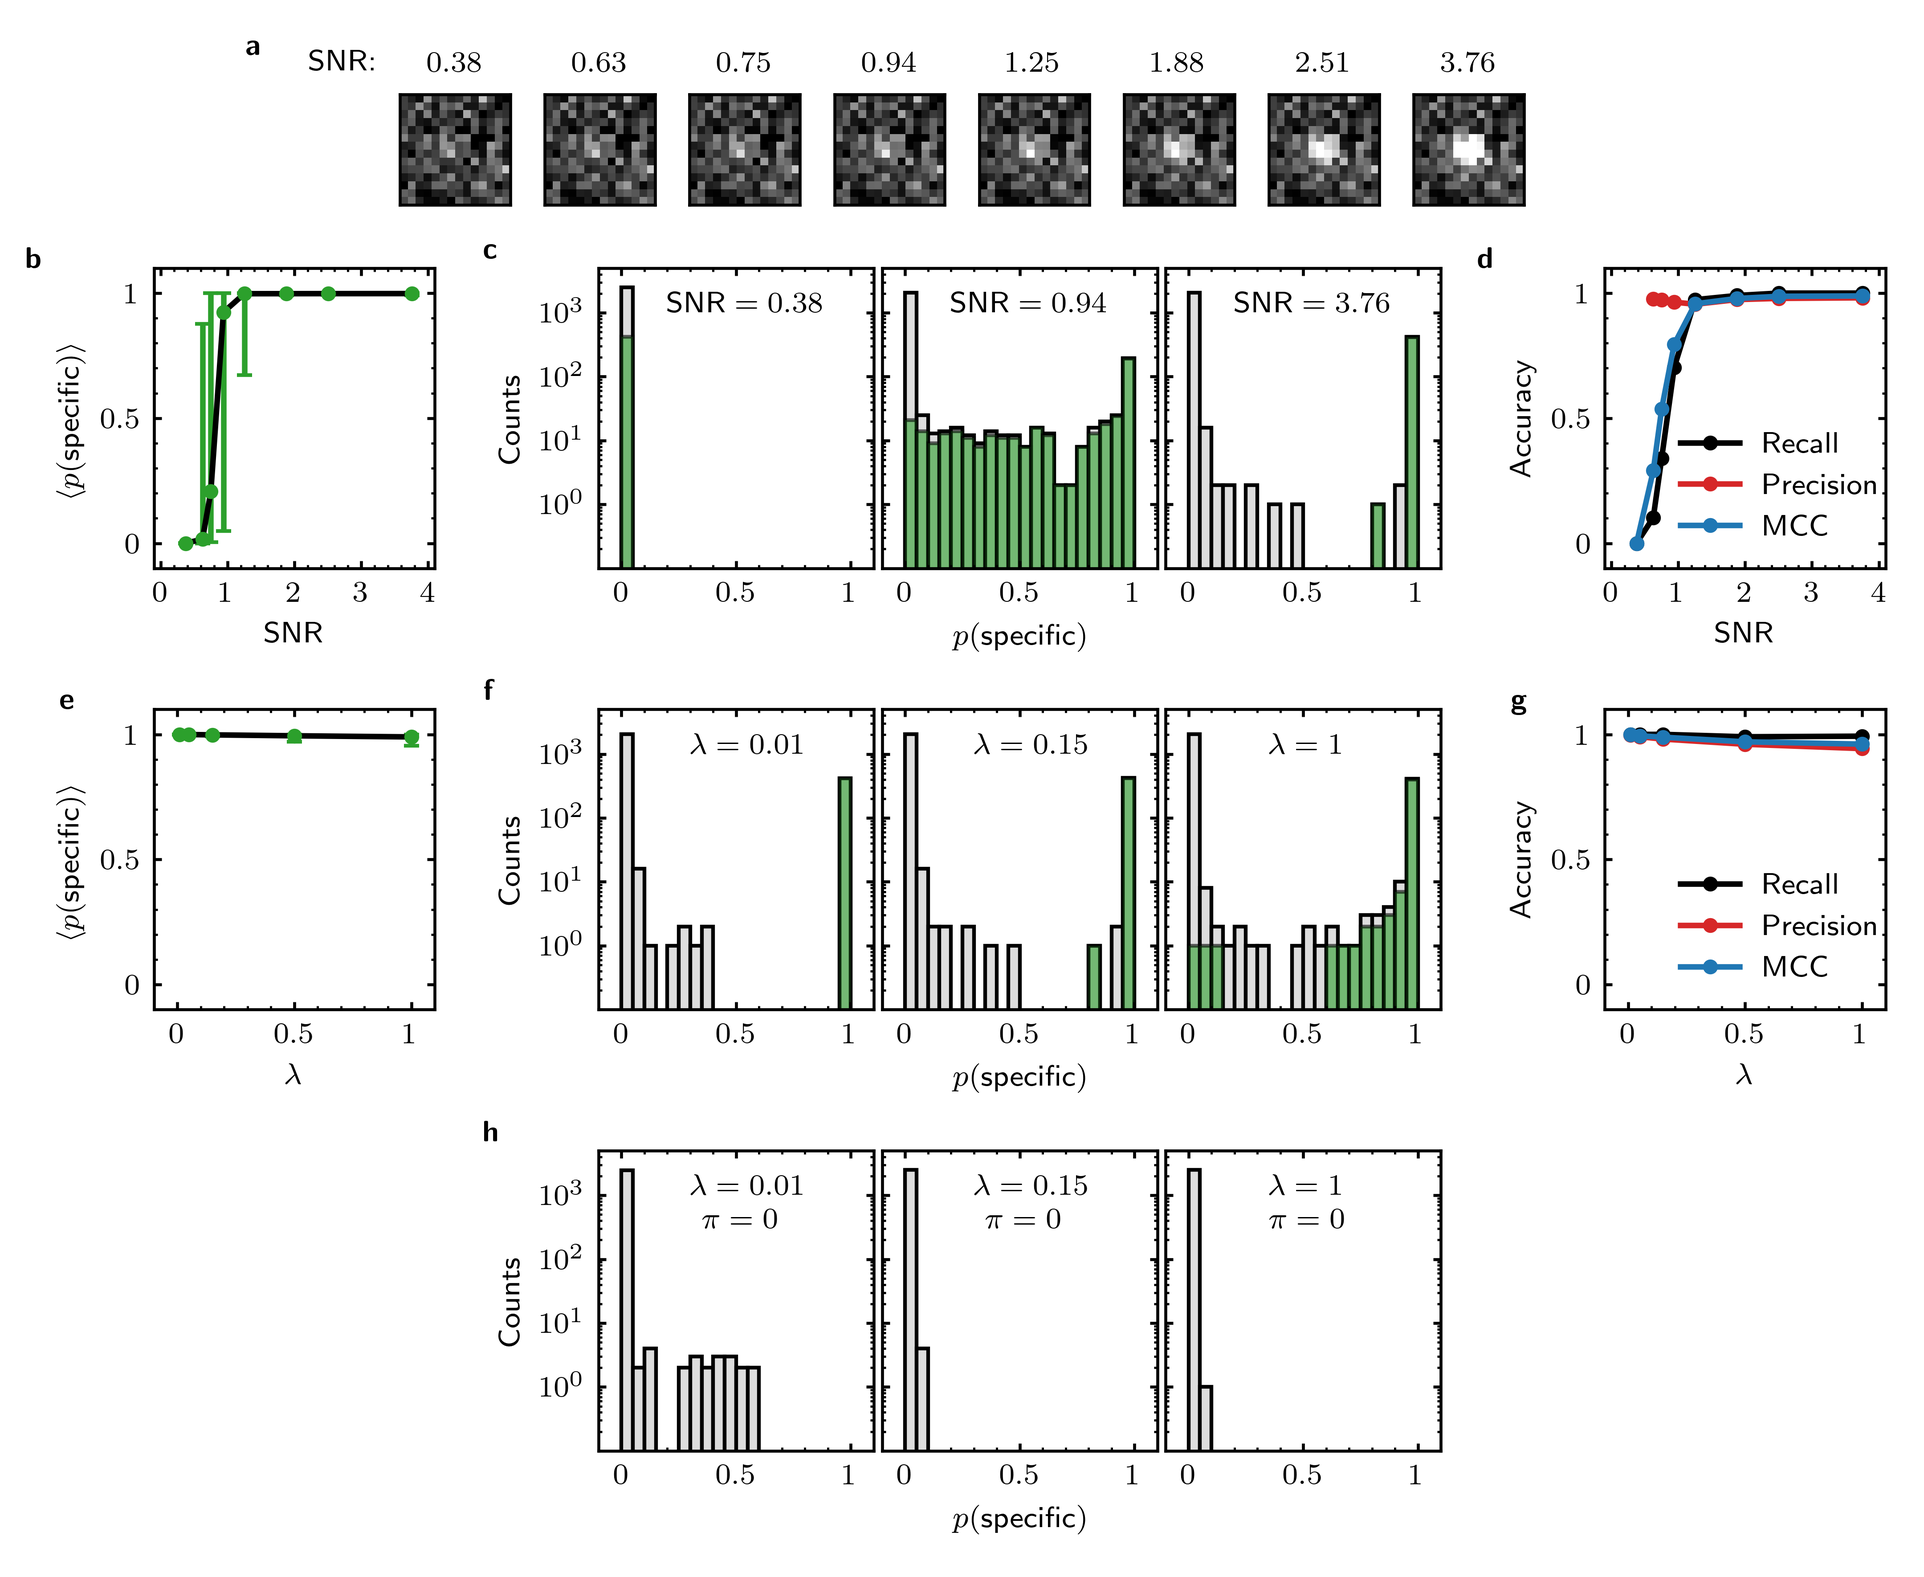
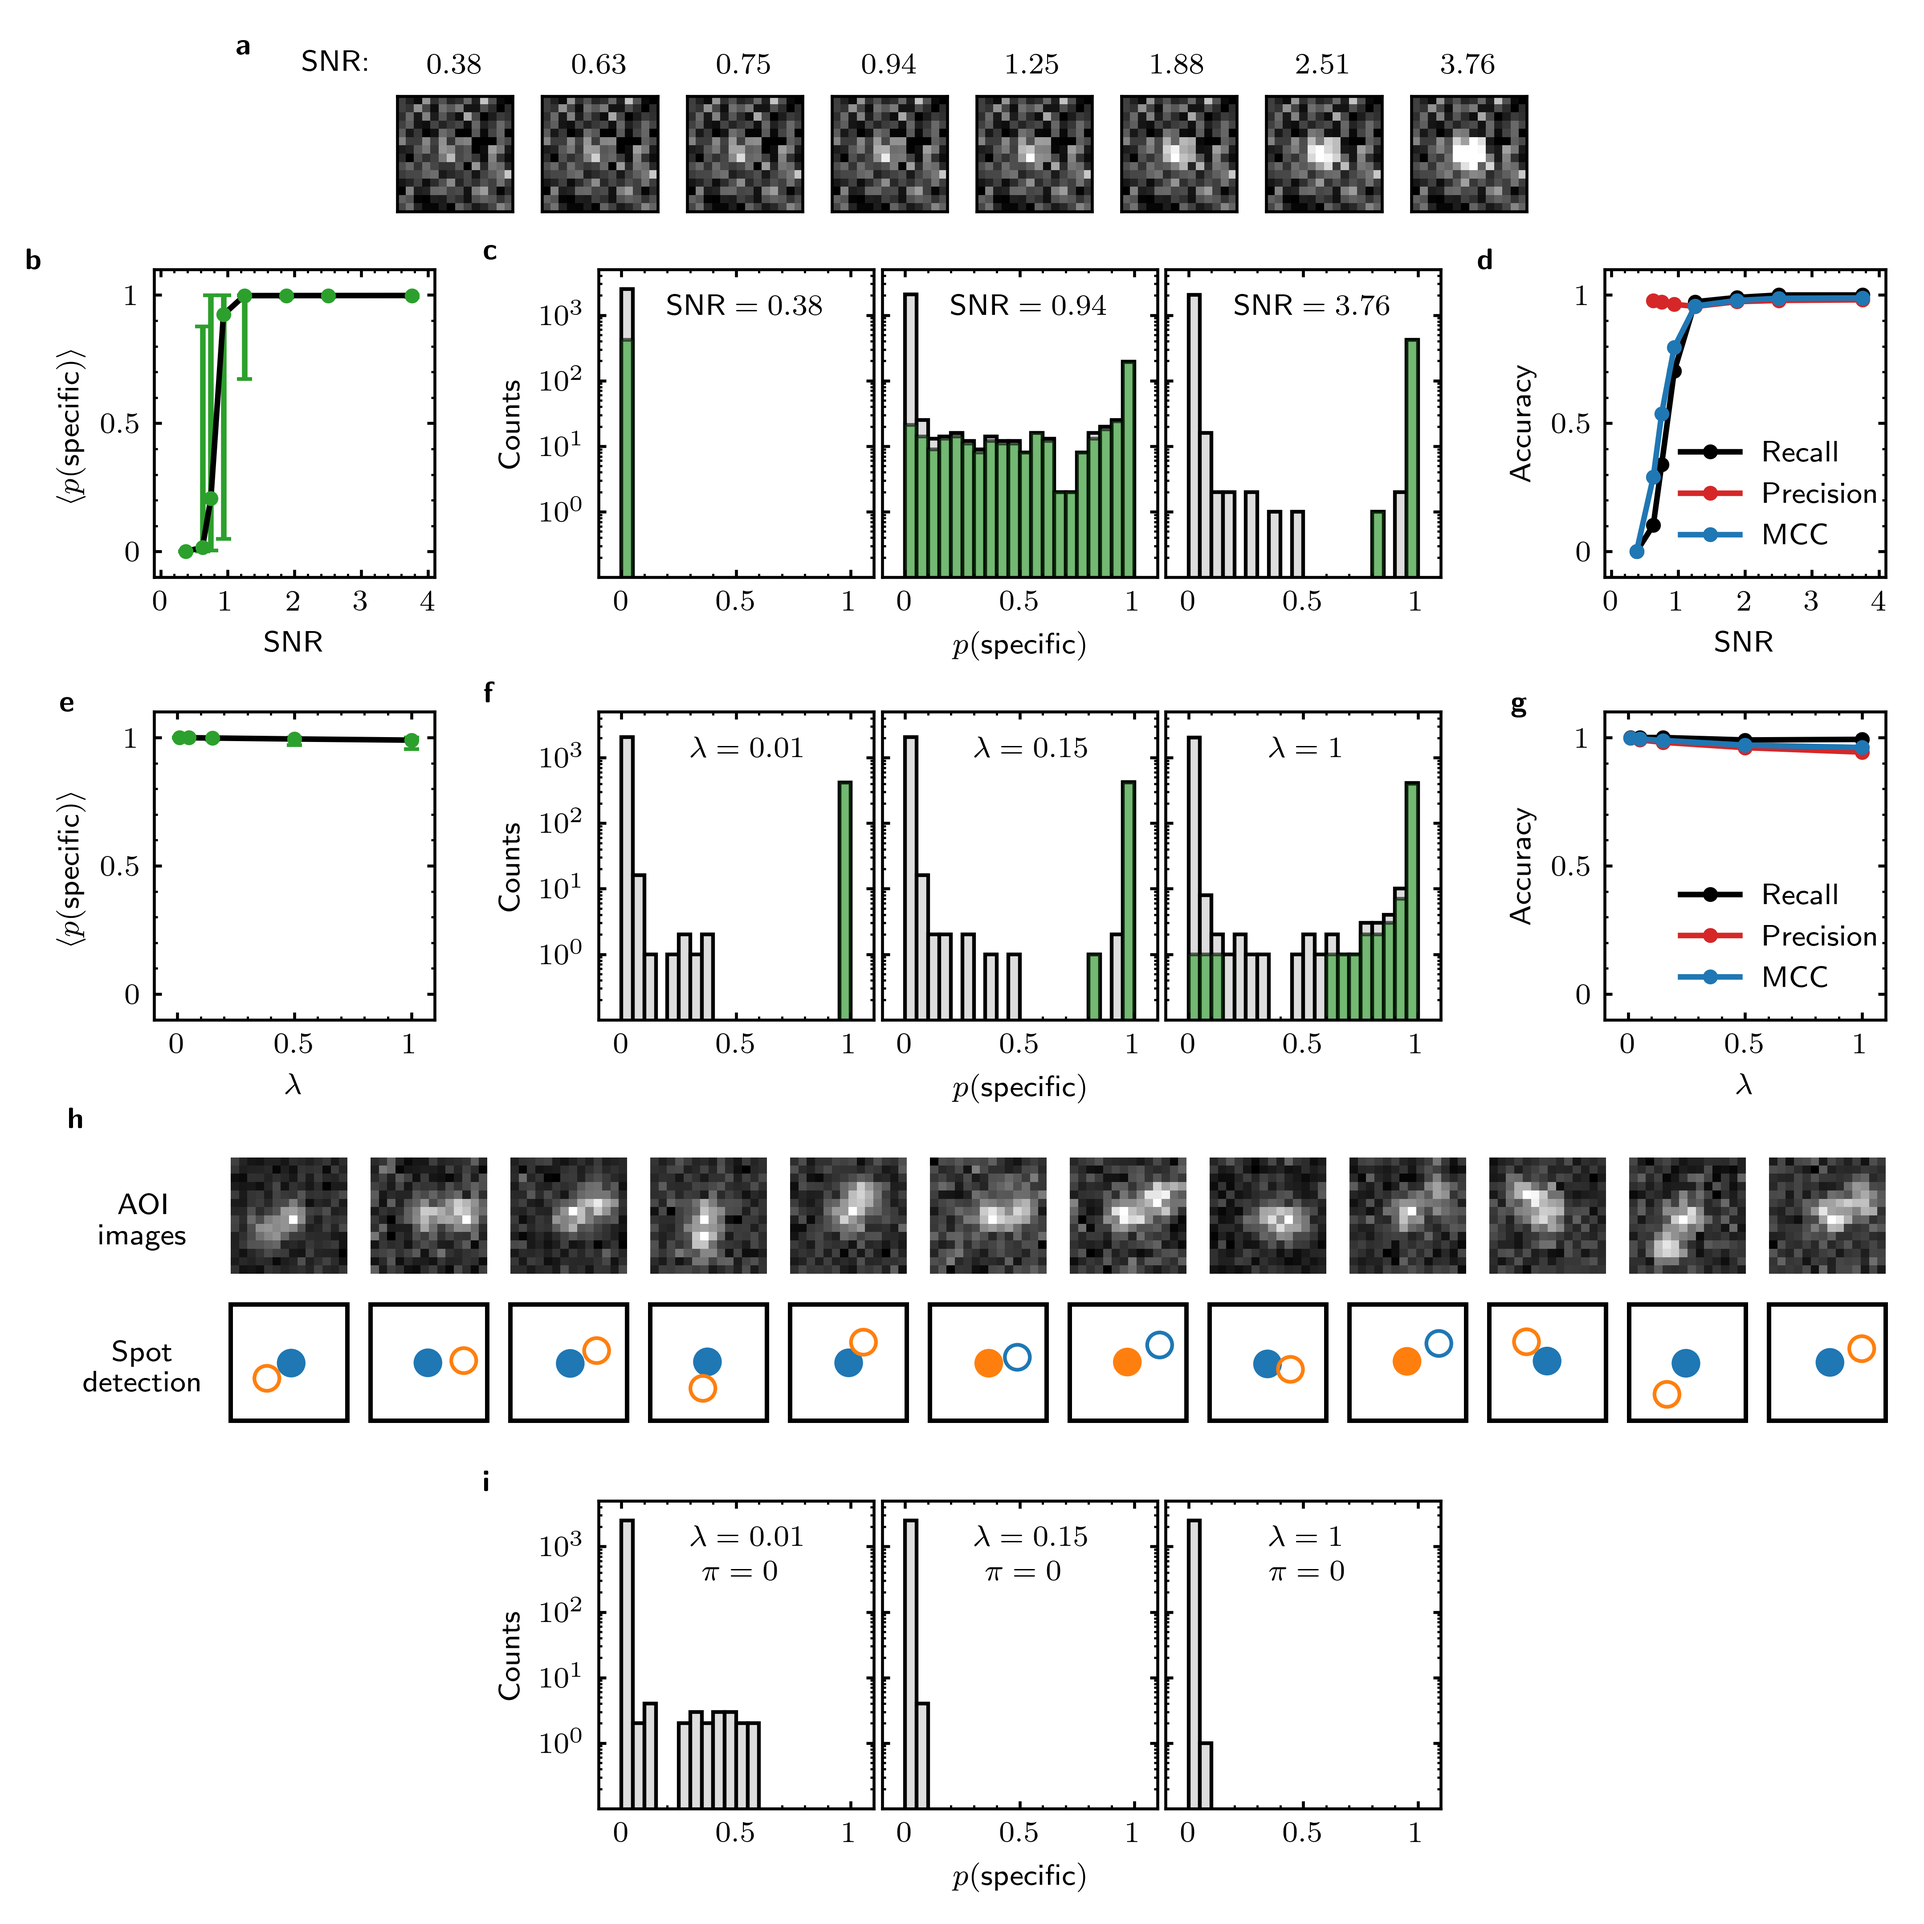
update figure 5

diff --git a/scripts/figures/figure5.py b/scripts/figures/figure5.py
@@ -5,6 +5,8 @@ import matplotlib as mpl
 import matplotlib.pyplot as plt
 import pandas as pd
 import torch
+from matplotlib.patches import Circle
+from scipy.io import loadmat
 from tapqir.models import Cosmos
 from tapqir.utils.dataset import load
 
@@ -42,12 +44,12 @@ for data_path in SIMULATIONS_DIR.iterdir():
 truth_df = pd.concat(truth.values(), axis=1).T.astype(float)
 truth_df = truth_df.sort_values(by="height")
 
-fig = plt.figure(figsize=(7.2, 5.9), constrained_layout=False)
+fig = plt.figure(figsize=(7.2, 7.2), constrained_layout=False)
 gsa = fig.add_gridspec(
     nrows=1,
     ncols=8,
-    top=0.94,
-    bottom=0.87,
+    top=0.95,
+    bottom=0.89,
     left=0.2,
     right=0.8,
     wspace=0.03,
@@ -74,20 +76,18 @@ for i, name in enumerate(truth_df.index):
         )
 
 gs = fig.add_gridspec(
-    nrows=3,
+    nrows=1,
     ncols=3,
-    top=0.83,
-    bottom=0.08,
+    top=0.86,
+    bottom=0.7,
     left=0.08,
     right=0.98,
     wspace=0.35,
-    hspace=0.47,
     width_ratios=[1, 3, 1],
-    height_ratios=[1, 1, 1],
 )
 
 # panel b
-ax = fig.add_subplot(gs[0, 0])
+ax = fig.add_subplot(gs[0])
 ax.text(
     -2,
     1.1,
@@ -141,7 +141,7 @@ ax.set_xlabel("SNR")
 ax.set_ylabel(r"$\langle p(\mathsf{specific}) \rangle $")
 
 # panel c
-gsc = gs[0, 1].subgridspec(1, 3, wspace=0.03)
+gsc = gs[1].subgridspec(1, 3, wspace=0.03)
 for i, name in enumerate(["height300", "height750", "height3000"]):
     ax = fig.add_subplot(gsc[0, i])
     ax.hist(
@@ -217,7 +217,7 @@ for i, name in enumerate(["height300", "height750", "height3000"]):
         )
 
 # panel d
-ax = fig.add_subplot(gs[0, 2])
+ax = fig.add_subplot(gs[2])
 ax.text(
     -2,
     1.1,
@@ -301,8 +301,19 @@ for data_path in SIMULATIONS_DIR.iterdir():
 truth_df = pd.concat(truth.values(), axis=1).T.astype(float)
 truth_df = truth_df.sort_values(by="lamda")
 
+gs = fig.add_gridspec(
+    nrows=1,
+    ncols=3,
+    top=0.63,
+    bottom=0.47,
+    left=0.08,
+    right=0.98,
+    wspace=0.35,
+    width_ratios=[1, 3, 1],
+)
+
 # panel e
-ax = fig.add_subplot(gs[1, 0])
+ax = fig.add_subplot(gs[0])
 ax.text(
     -0.5,
     1.1,
@@ -357,7 +368,7 @@ ax.set_xlabel(r"$\lambda$")
 ax.set_ylabel(r"$\langle p(\mathsf{specific}) \rangle $")
 
 # panel f
-gsg = gs[1, 1].subgridspec(1, 3, wspace=0.03)
+gsg = gs[1].subgridspec(1, 3, wspace=0.03)
 for i, name in enumerate(["lamda0.01", "lamda0.15", "lamda1"]):
     ax = fig.add_subplot(gsg[0, i])
     ax.hist(
@@ -433,7 +444,7 @@ for i, name in enumerate(["lamda0.01", "lamda0.15", "lamda1"]):
         )
 
 # panel g
-ax = fig.add_subplot(gs[1, 2])
+ax = fig.add_subplot(gs[2])
 ax.text(
     -0.5,
     1.1,
@@ -493,6 +504,70 @@ ax.set_ylabel(r"$\langle p(\mathsf{specific}) \rangle $")
 ax.set_ylabel("Accuracy")
 ax.legend(bbox_to_anchor=(1.08, 0.0), loc="lower right", frameon=False, ncol=1)
 
+# panel h
+gs = fig.add_gridspec(
+    nrows=2,
+    ncols=12,
+    top=0.4,
+    bottom=0.26,
+    left=0.12,
+    right=0.98,
+)
+
+
+# load data
+model = Cosmos()
+model.load("simulations/lamda1", data_only=False)
+
+spotpicker = loadmat("simulations/spotpicker_result.mat")
+
+aois = [0, 0, 0, 1, 1, 1, 2, 2, 3, 3, 4, 4]
+frames = [166, 333, 476, 59, 163, 440, 157, 321, 34, 386, 60, 191]
+
+for i, (n, f) in enumerate(zip(aois, frames)):
+    ax = fig.add_subplot(gs[0, i])
+    ax.imshow(model.data.ontarget.images[n, f], cmap="gray")
+    ax.axis("off")
+    if i == 0:
+        ax.text(-20, -4, r"\textbf{h}")
+        ax.text(
+            -11,
+            10,
+            "AOI\nimages",
+            horizontalalignment="center",
+        )
+
+    ax = fig.add_subplot(gs[1, i])
+    ax.imshow(torch.ones((model.data.P, model.data.P)), vmin=0, vmax=1, cmap="gray")
+    # add patch
+    for k in range(2):
+        if model.params["d/m_probs"][k, n, f].item() > 0.5:
+            fill = model.params["d/z_probs"][k, n, f].item() > 0.5
+            ax.add_patch(
+                Circle(
+                    (
+                        model.data.ontarget.x[n, f]
+                        + model.params["d/x"]["Mean"][k, n, f].item(),
+                        model.data.ontarget.y[n, f]
+                        + model.params["d/y"]["Mean"][k, n, f].item(),
+                    ),
+                    1.5,
+                    color=f"C{k}",
+                    fill=fill,
+                )
+            )
+        for axis in ["top", "bottom", "left", "right"]:
+            ax.spines[axis].set_linewidth(1.2)
+        ax.axes.xaxis.set_visible(False)
+        ax.axes.yaxis.set_visible(False)
+    if i == 0:
+        ax.text(
+            -11,
+            10,
+            "Spot\ndetection",
+            horizontalalignment="center",
+        )
+
 # load results
 truth = {}
 fit = {}
@@ -519,8 +594,19 @@ for data_path in SIMULATIONS_DIR.iterdir():
 truth_df = pd.concat(truth.values(), axis=1).T.astype(float)
 truth_df = truth_df.sort_values(by="lamda")
 
-# panel h
-gsi = gs[2, 1].subgridspec(1, 3, wspace=0.03)
+# panel i
+gs = fig.add_gridspec(
+    nrows=1,
+    ncols=3,
+    top=0.22,
+    bottom=0.06,
+    left=0.08,
+    right=0.98,
+    wspace=0.35,
+    hspace=0.47,
+    width_ratios=[1, 3, 1],
+)
+gsi = gs[1].subgridspec(1, 3, wspace=0.03)
 for i, name in enumerate(["negative0.01", "negative0.15", "negative1"]):
     ax = fig.add_subplot(gsi[0, i])
     ax.hist(
@@ -572,7 +658,7 @@ for i, name in enumerate(["negative0.01", "negative0.15", "negative1"]):
         ax.text(
             -0.6,
             7e3,
-            r"\textbf{h}",
+            r"\textbf{i}",
         )
         ax.text(
             0.3,
